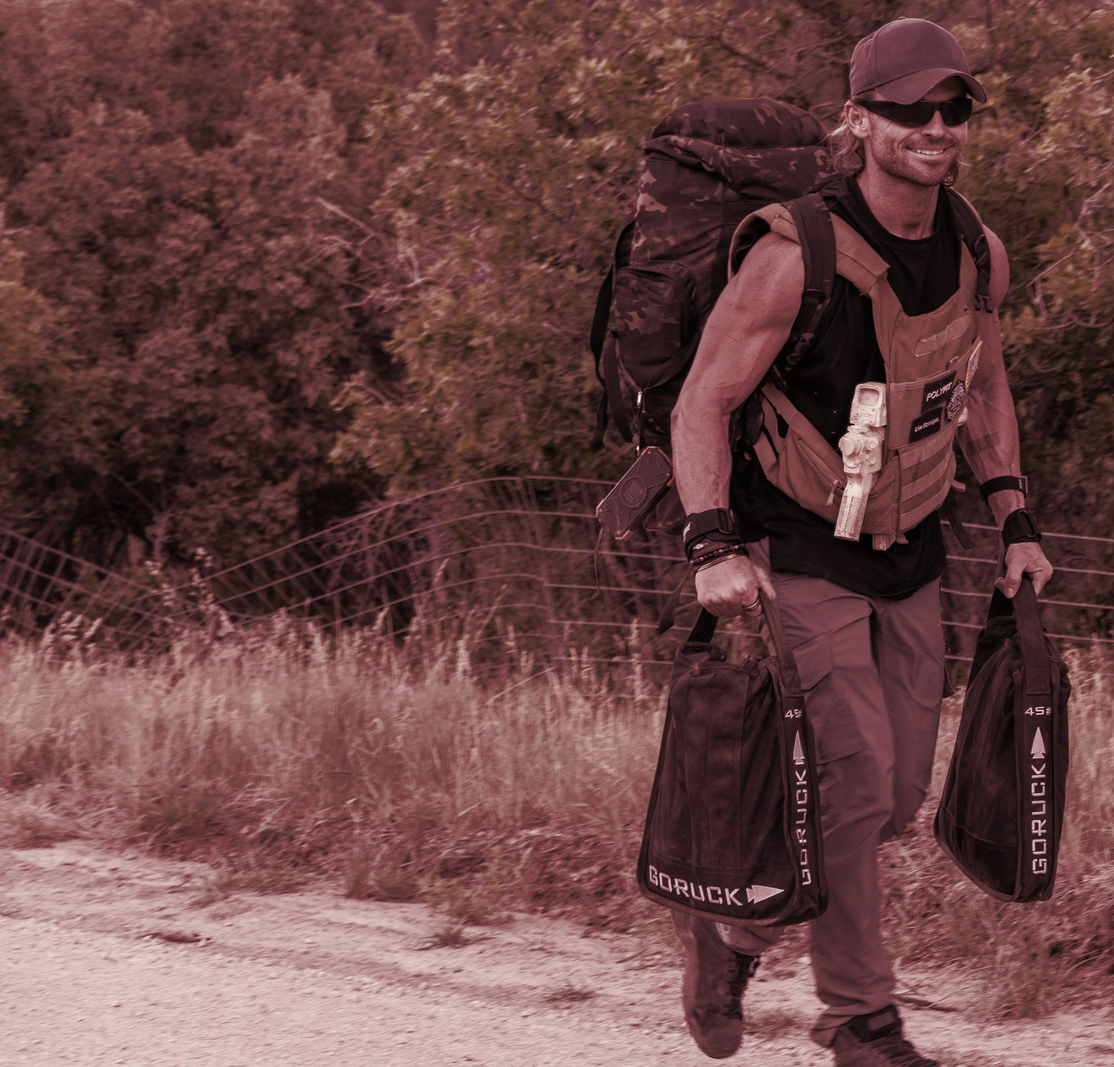
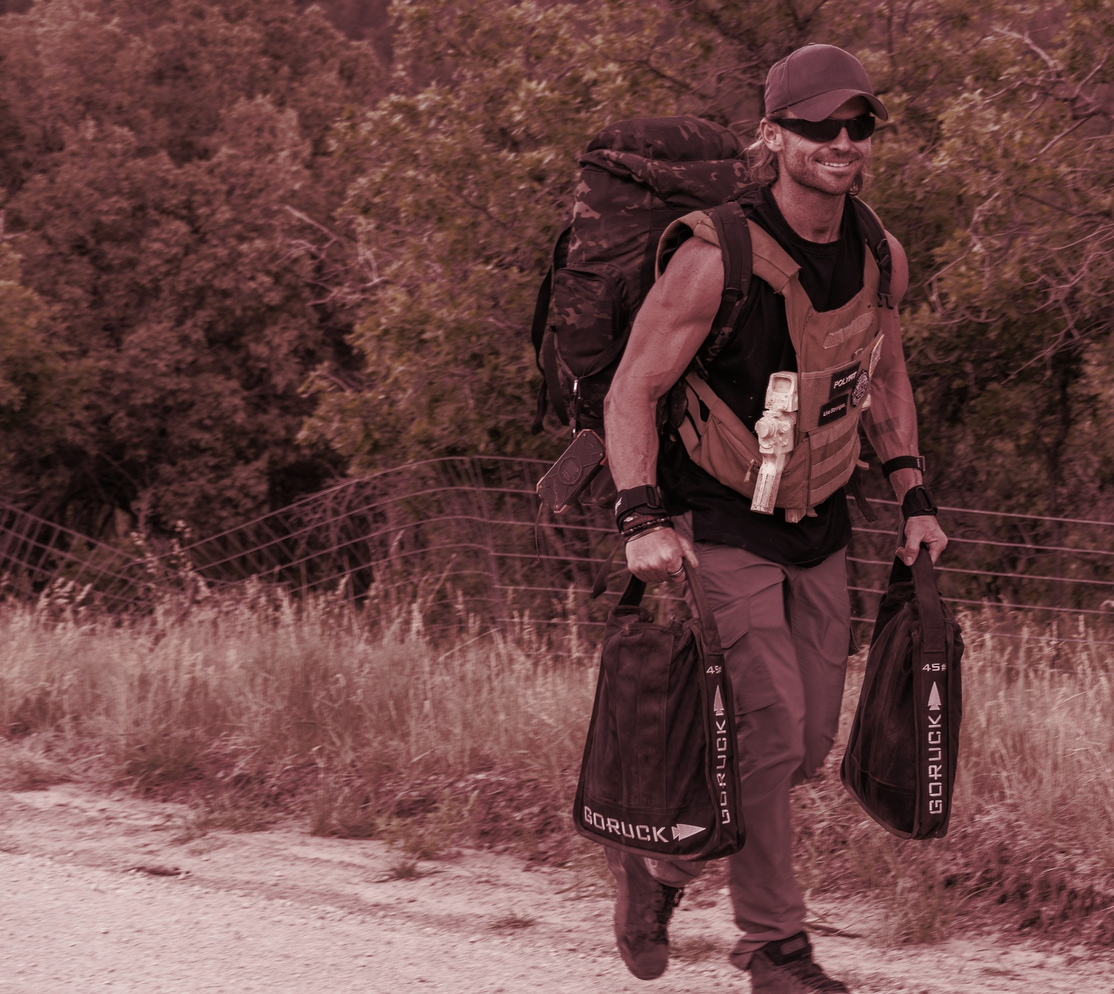
Fix hero head-cropping on wide screens, keep rightward position
The prior crop had almost no margin above the head, so on very wide or
short browser windows the cover-fit vertical crop (needed since the
image is narrower than the viewport aspect) cut straight into his cap.
Re-cropped with a generous head margin and set objectPosition to
"center top" so cropping only ever removes from the bottom (near the
boots), never the top. Verified head stays fully clear at an extreme
2.0-aspect window and nearly full body shows at a typical 1.6-aspect
laptop window. The rightward position from the last change is
preserved.

diff --git a/src/app/page.tsx b/src/app/page.tsx
@@ -49,7 +49,7 @@ export default function HomePage() {
           preload
           sizes="100vw"
           quality={85}
-          style={{ objectFit: "cover", objectPosition: "center" }}
+          style={{ objectFit: "cover", objectPosition: "center top" }}
         />
 
         {/* Scrim for text contrast over the photo */}
